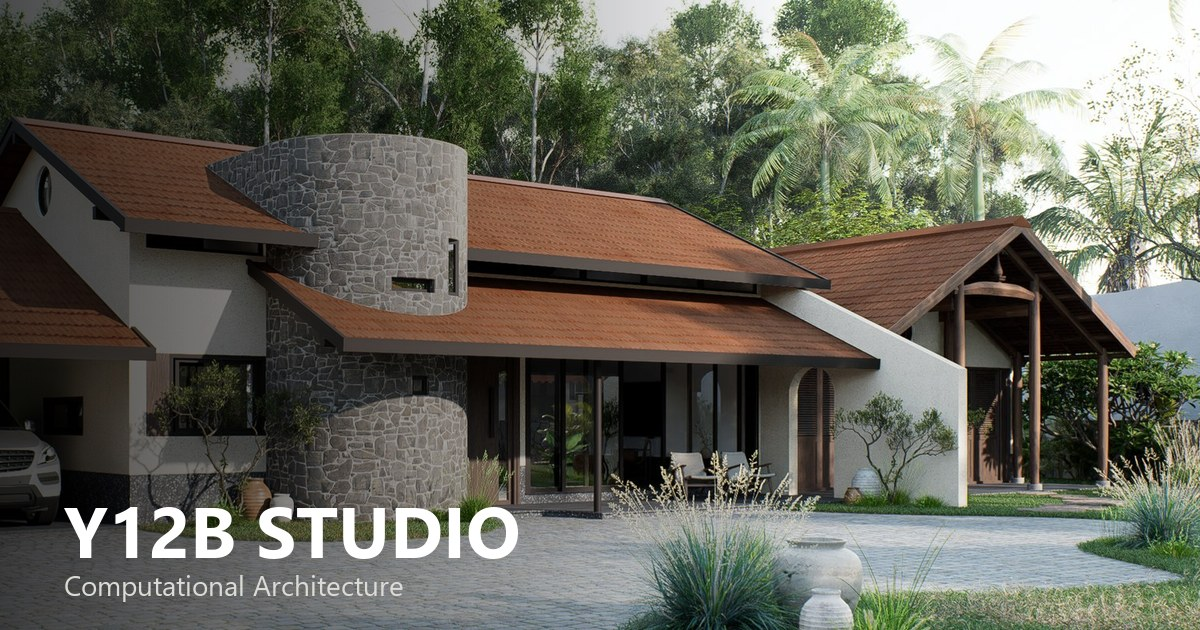
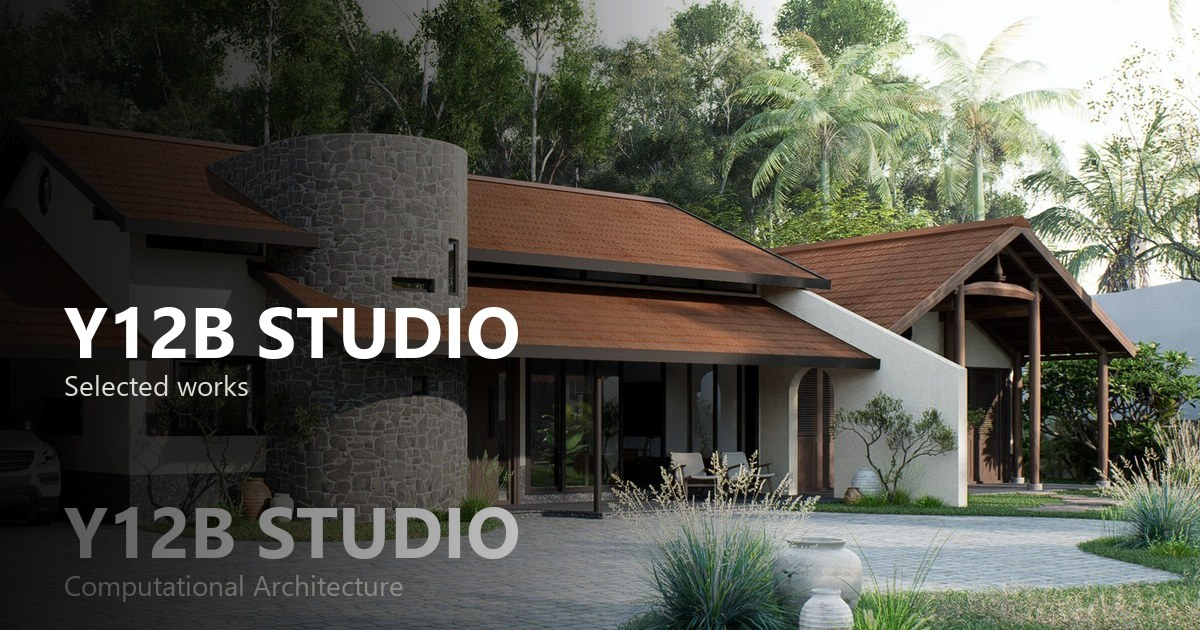
Revert title to 'Y12B Studio' (drop 'Computational Architecture' suffix)

diff --git a/index.html b/index.html
@@ -3,14 +3,14 @@
 <head>
 <meta charset="UTF-8">
 <meta name="viewport" content="width=device-width, initial-scale=1.0">
-<title>Y12B Studio — Computational Architecture</title>
+<title>Y12B Studio</title>
 <meta name="description" content="Y12B Studio is a computational architecture practice based in Vietnam. Selected works across residential, interior, exhibition, and commercial projects.">
 <meta name="theme-color" content="#141413">
 
 <!-- Open Graph (Facebook, LinkedIn, iMessage, Slack, Discord, Telegram, ...) -->
 <meta property="og:type" content="website">
 <meta property="og:site_name" content="Y12B Studio">
-<meta property="og:title" content="Y12B Studio — Computational Architecture">
+<meta property="og:title" content="Y12B Studio">
 <meta property="og:description" content="Selected works of Y12B Studio — computational architecture across residential, interior, exhibition, and commercial projects.">
 <meta property="og:url" content="https://y12b.netlify.app/">
 <meta property="og:image" content="https://y12b.netlify.app/og-cover.jpg">
@@ -21,7 +21,7 @@
 
 <!-- Twitter / X -->
 <meta name="twitter:card" content="summary_large_image">
-<meta name="twitter:title" content="Y12B Studio — Computational Architecture">
+<meta name="twitter:title" content="Y12B Studio">
 <meta name="twitter:description" content="Selected works of Y12B Studio — computational architecture across residential, interior, exhibition, and commercial projects.">
 <meta name="twitter:image" content="https://y12b.netlify.app/og-cover.jpg">
 <meta name="twitter:image:alt" content="Y12B Studio — selected works">

diff --git a/.hermes/notes-y12b-session-2026-09-01.md b/.hermes/notes-y12b-session-2026-09-01.md
@@ -1,0 +1,68 @@
+# Y12B Session Notes — 2026-09-01
+
+## New facts from this session (worth carrying to memory in future turns)
+
+### WORKFLOW CHANGE — DISK = SOURCE OF TRUTH (2026-09-01)
+- User confirmed 3x: "trong gallery o projects co thi tren web co do" / "trong may (project) da dung, hay dua no len web"
+- Workflow for GALLERIES = scan projects/<slug>/gallery/ → natural sort → rebuild index.html GALLERIES entry → commit → push → deploy Netlify
+- **KHONG rename file cua user** — chi rewrite GALLERIES de khop disk
+- Always verify 0 missing files before commit (script: `os.path.exists` check every ref)
+
+### COMMUNICATION BREAKDOWN (2026-09-01)
+- User: "ban dang khong hoi duoc toi. den cho cau hoi la bi treo mai mai"
+- User: "khong can noi nhieu"
+- **Rule toi nen theo**: toi da 1 clarify call per turn, tot nhat la 0. Khong biet -> tu quyet theo memory+skill+vision_check, hanh dong lien, giai thich ngan 1-2 dong.
+- Avoid multiple `clarify` calls in sequence — they hang for this user.
+
+### NEW ARTIFACTS
+- **og-cover.jpg** (1200x630, 244KB) — for Open Graph share previews. Generated from thi-thi cover + Y12B STUDIO text branding. Located at repo root.
+- **Open Graph meta tags** added to index.html <head>:
+  - og:type, og:site_name, og:title, og:description, og:url, og:image, og:image:width (1200), og:image:height (630), og:image:alt, og:locale
+  - twitter:card=summary_large_image, twitter:title, twitter:description, twitter:image, twitter:image:alt
+- Title changed: "Y12B Studio" → "Y12B Studio — Computational Architecture"
+- Added: meta description, theme-color #141413
+- Commit: d0f3d47
+
+### NETLIFY DEPLOYMENT (2026-08-30 / 2026-09-01)
+- Site ID: a293df06-4b23-4c30-b194-ee97eaa7360d
+- **ACCOUNT HAS SECURE SITE / SSO ENABLED BY DEFAULT** — new sites return 401 until PATCHed:
+  - `sso_login=false`
+  - `account_sso_login=false`
+  - `force_ssl=true` (optional)
+- ZIP build: EXCLUDE .git, .hermes, _ARCHIVE_netlify_2026-08-31, content, node_modules, _SYNC_NOTES.md
+- POST zip to /api/v1/sites/{id}/deploys
+- Poll deploy state with GET /api/v1/deploys/{id} (uploads in ~20-60s, ready in seconds after)
+- Netlify injects: HTML comment "This site is hosted on Netlify", meta hosting-provider/netlify-deploy, script /.netlify/scripts/hud — STRIP when comparing content
+
+### ORIGINAL OLD NETLIFY SITE (backed up 2026-08-30)
+- Site ID: d73b2b1c-5dd8-4f2c-bf9b-689a3083b4da
+- Backup location: `C:\Users\HuyNguyen\Agent workspace\y12b-website\_ARCHIVE_netlify_2026-08-31\` (23 files, 4.26 MB)
+- That was a different version (Inter font, parchment/ink/aubergine, hero slideshow) — NOT the current Y12B site
+- DELETE old site via DELETE /api/v1/sites/{id} (returns 204), then create new with POST /api/v1/sites
+
+### URL OPTIONS FOR Y12B
+- Current: y12b.netlify.app (17 chars) ✅
+- Current: neutrino-qh.github.io/y12b-website (35 chars) ✅
+- Best FREE: y12b.github.io (14 chars) — but GitHub user "y12b" is taken (id 152957291, created 2023-12-05, 0 public repos, possibly user's old account). User needs to recover via email/GitHub Support to claim this URL.
+
+### content/ LEGACY (104MB, 24 files)
+- Gitignored, NOT referenced by index.html
+- 0 hash match with projects/ (different content + slug names)
+- User has NOT yet decided: move to archive / zip+delete / keep as-is
+- DO NOT wire back into GALLERIES unless user explicitly asks
+
+### FILES I EDITED/MOVED THIS SESSION
+- _ARCHIVE_netlify_2026-08-31/ created (backup of old Netlify site)
+- projects/01-thi-thi/cover.jpg regenerated from new cover.png (4.7MB PNG → 1600x799 JPG q88, 464KB)
+- projects/01-thi-thi/gallery/ renamed: 02/03/04/05/06/07.jpg, 09.jpg, 10/11/12.jpg, g1/g2.jpg, g10_1/2/3.jpg → unified to 1.jpg-14.jpg (zero-pad natural sort, 14 files)
+- projects/03-phu-tho/gallery/: 01.jpg, 04.jpg, 05.jpg deleted (working tree edits user did), 1.jpg, 4.jpg added (renamed from 04, 05). Final: 02.jpg, 03.jpg, 1.jpg, 4.jpg
+
+### COMMITS THIS SESSION
+- 12517dd: "Sync galleries to disk: drop 0-byte refs (thi-thi 03, phu-tho 01, thi-thi g3) and clean up g1/g2 swap"
+- 67122e1: "Regenerate GALLERIES from disk: 55 refs across 8 projects (all verified exist)"
+- 23a76d5: "Thi-Thi gallery: rename to 1-14.jpg (zero-pad, natural sort), 14 files"
+- d0f3d47: "Thi-Thi cover update + add Open Graph / Twitter meta tags for share previews"
+
+### REMINDER FOR NEXT SESSION
+- **REVOKE Netlify token** at https://app.netlify.com/user/applications — token `nfp_a1P6vN4328qh21diG5nSSoLzkmrJxCVbd597` has write access
+- Memory tool kept failing for me on this session (over 2000 char limit when batching). Use this notes file for carry-over.
